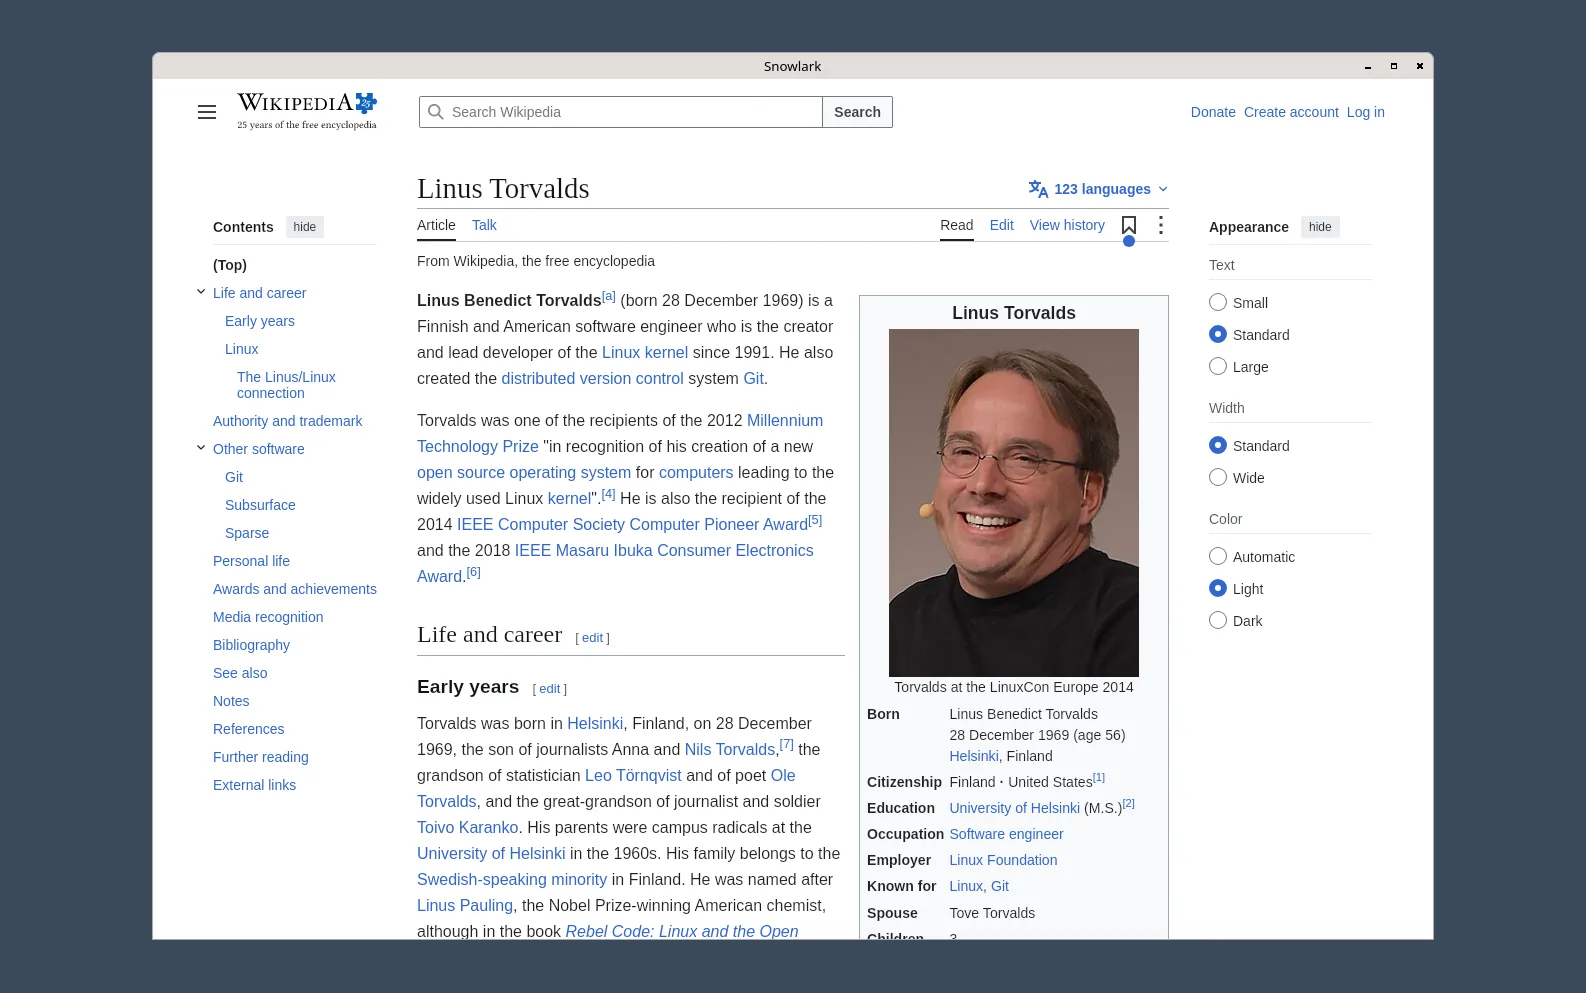
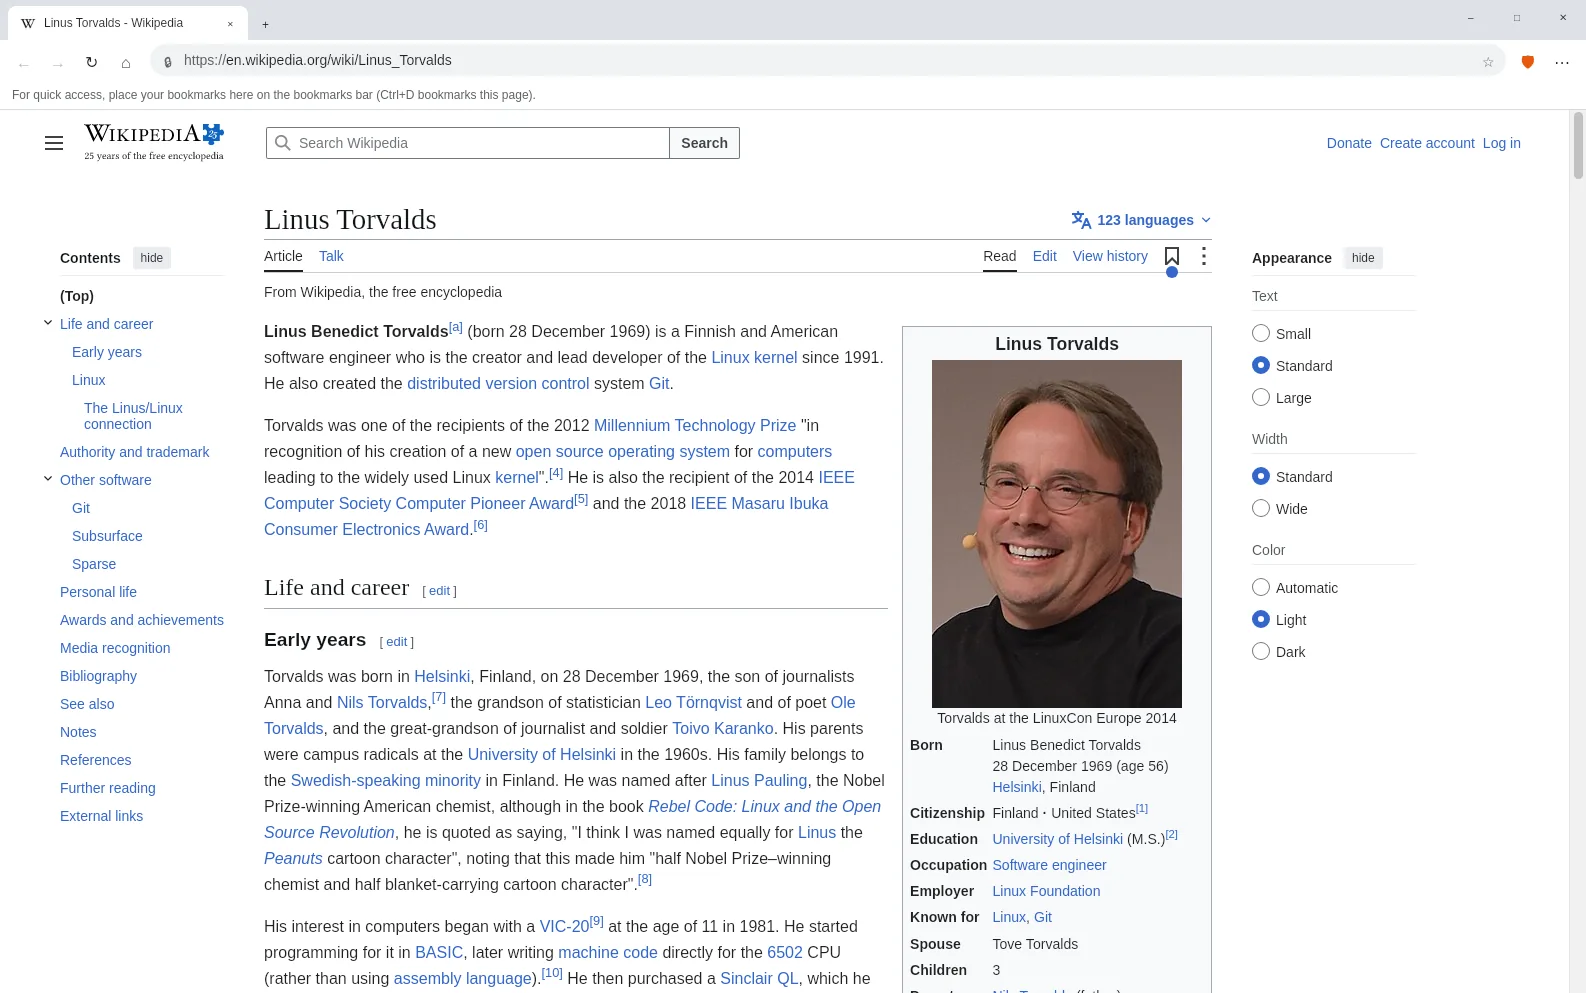
Linux: the browser window with its tabs and address bar; window-only screenshots

diff --git a/index.html b/index.html
@@ -125,7 +125,7 @@
     <a class="button" href="https://github.com/snowlark-browser/snowlark">Source on GitHub</a>
   </div>
   <p class="small muted">Preview of 25 November 2026 &middot; Windows 10 and 11, 64-bit &middot; 49 MB &middot; signed by SVEA IKT AB &middot; <a href="https://github.com/snowlark-browser/snowlark/releases/tag/preview-2026-11-25c">release notes</a></p>
-  <p class="small muted">Linux: no download yet. Snowlark already shows pages there in a Wayland window, and builds from source (<a href="https://github.com/snowlark-browser/snowlark#on-linux-in-progress">how</a>); the browser's own interface comes next.</p>
+  <p class="small muted">Linux: no download yet. The browser already runs there, with its tabs and address bar, and builds from source (<a href="https://github.com/snowlark-browser/snowlark#on-linux-in-progress">how</a>); a .tar.gz preview comes once it is ready.</p>
   <p class="note">An early preview: many sites work, but expect pages that look wrong, missing features and the odd crash. <a href="https://github.com/snowlark-browser/snowlark/blob/main/KNOWN-ISSUES.md">Known issues</a></p>
 </header>
 
@@ -210,7 +210,7 @@
   <ul>
     <li><strong>Service workers and the Cache API:</strong> sites that work offline, installable web apps and faster repeat visits.</li>
     <li><strong>Fixes for what breaks popular websites,</strong> found by comparing about 700 pages at two widths: card layouts with <code>aspect-ratio</code>, and content that stays hidden because an animation or a WebGL check never finishes.</li>
-    <li><strong>Linux:</strong> Snowlark shows pages on Linux in a Wayland window, with mouse, wheel and keyboard (V8 for Linux, text with fontconfig and HarfBuzz, painting with Skia); see the screenshots above. The messaging between the browser and its tab processes works on Linux too. Now: the browser's interface (tabs, address bar), cursors and clipboard in that window, then separate processes for tabs, WebGL, and a .tar.gz preview once it runs.</li>
+    <li><strong>Linux:</strong> the browser runs on Linux in a Wayland window, with its tabs and address bar, each tab's pages in a process of their own (V8 for Linux, text with fontconfig and HarfBuzz, painting with Skia); see the screenshots above. Now: the clipboard, cursors, more than one window, WebGL, and a .tar.gz preview.</li>
   </ul>
 
   <h3>Next</h3>
